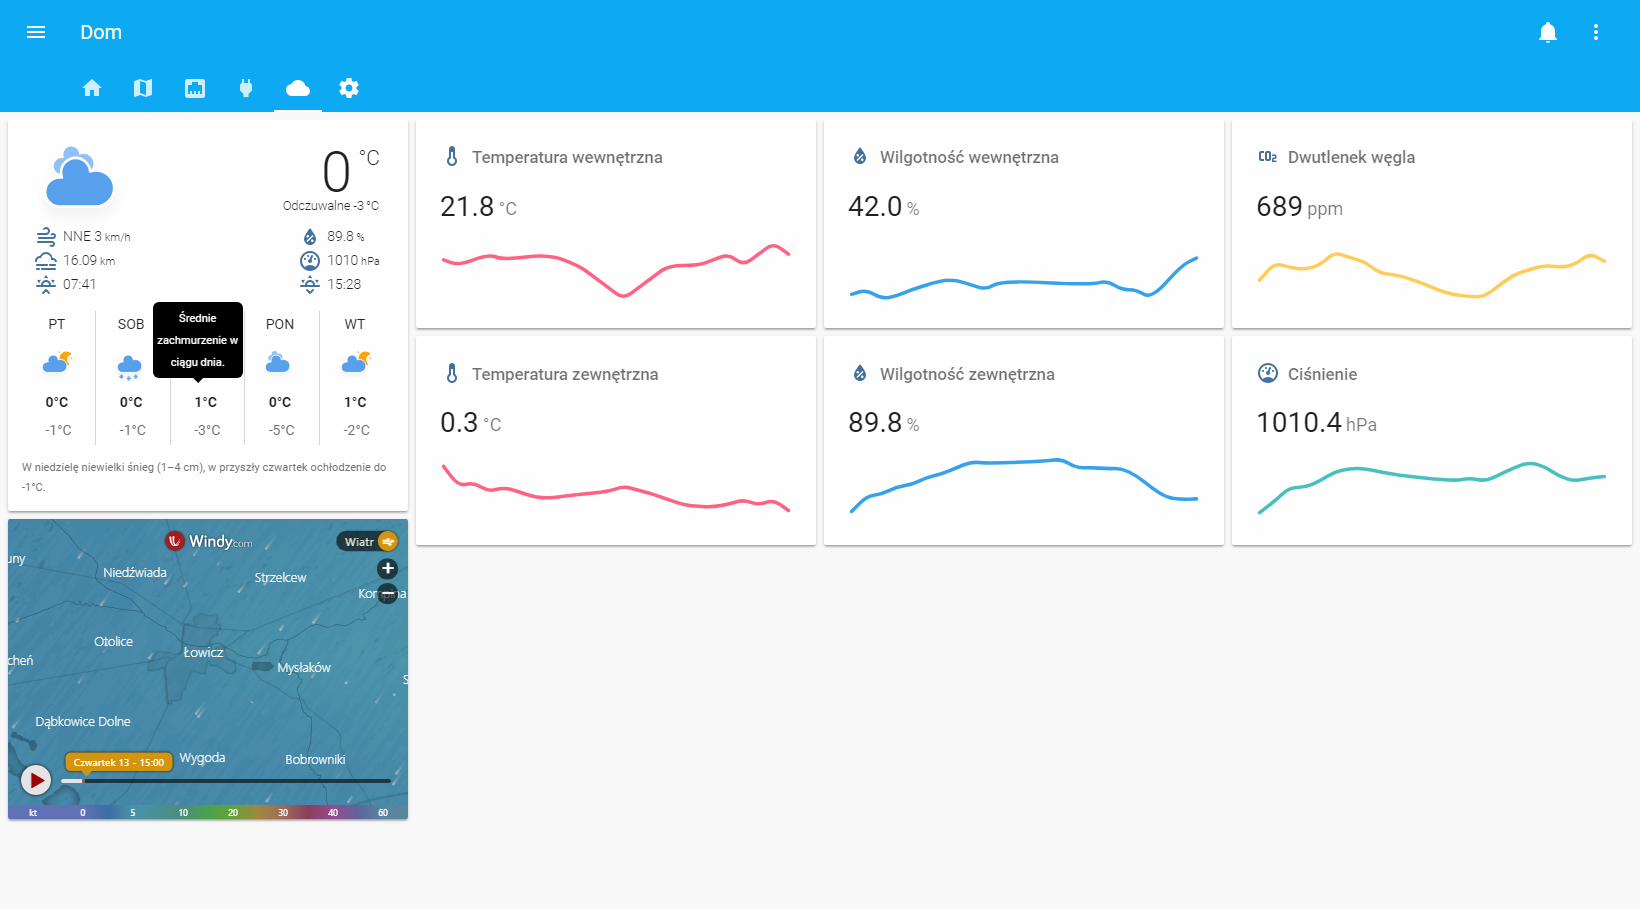
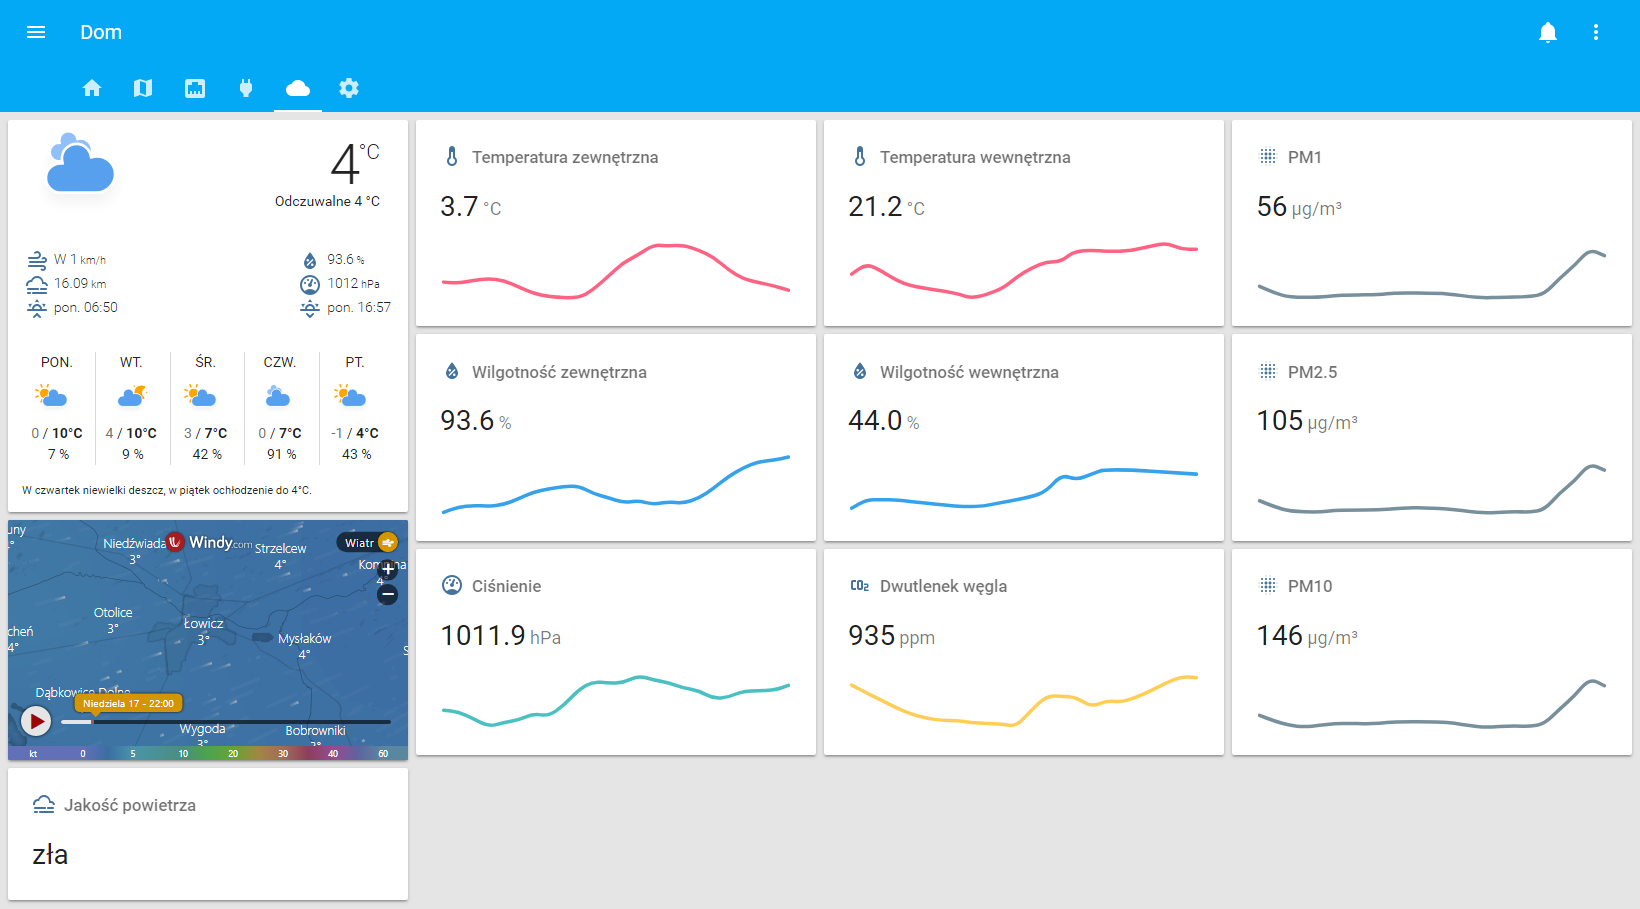
Add airly sensors and a lot of changes

diff --git a/README.md b/README.md
@@ -71,7 +71,7 @@
 * [mini-media-player](https://github.com/kalkih/mini-media-player)
 * [tracker-card](https://github.com/custom-cards/tracker-card)
 * [vertical-stack-in-card](https://github.com/custom-cards/vertical-stack-in-card)
-* [monster-card](https://github.com/ciotlosm/custom-lovelace/tree/master/monster-card)
+* [auto-entities](https://github.com/thomasloven/lovelace-auto-entities)
 * [card-tools](https://github.com/thomasloven/lovelace-card-tools)
 
 ## AppDaemon
